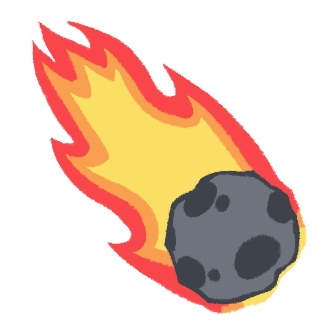
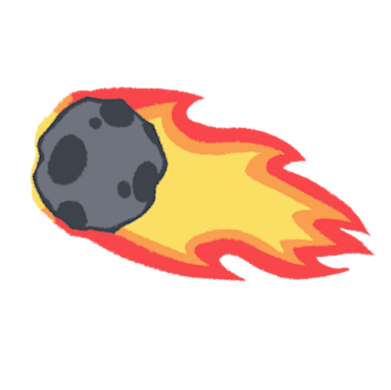
Cloud platforms only fade when standing on them and fixed meteors

diff --git a/Assets/Player/PlayerController.cs b/Assets/Player/PlayerController.cs
@@ -64,7 +64,7 @@ public class PlayerController : MonoBehaviour
 
     [Header("Misc")]
     [Tooltip("How many collectable thingies the player has collected")]
-    [SerializeField] int grabby = 0;
+    [SerializeField] public static int collectables = 0;
     [Tooltip("How much time it takes for the player to die")]
     [Range(0f, 10f)]
     [SerializeField] float TimeBeforeDeath = 5;
@@ -204,7 +204,7 @@ public class PlayerController : MonoBehaviour
     }
 
     // If the player is close enough to the ground, consider them to be grounded
-    private bool IsGrounded() 
+    public bool IsGrounded() 
     {
         return Physics2D.OverlapCircle(GroundCheck.position, 0.2f, GroundLayer);
     }
@@ -220,8 +220,8 @@ public class PlayerController : MonoBehaviour
         }
         else if (coll.tag == GrabTag)
         {
-            grabby++;
-            CollectionText.text = grabby.ToString();
+            collectables++;
+            CollectionText.text = collectables.ToString();
             AudioSource.PlayClipAtPoint(CollectableSFX, transform.position);
             GoatSource.PlayOneShot(CollectableSFX);
             Destroy (coll.gameObject);
@@ -248,7 +248,9 @@ public class PlayerController : MonoBehaviour
 
     IEnumerator Death()
     {
-        yield return new WaitForSeconds(TimeBeforeDeath);
-        SceneManager.LoadScene("GameOver");
+        //yield return new WaitForSeconds(TimeBeforeDeath);
+        //collectables = 0;
+        //SceneManager.LoadScene("GameOver");
+        yield return null;
     }
 }

diff --git a/Assets/Obstacles/Level 4/Meteor.cs b/Assets/Obstacles/Level 4/Meteor.cs
@@ -8,6 +8,8 @@ public class Meteor : MonoBehaviour
     [SerializeField] string DeathTrigger = "Death Platform";
     public float MoveSpeed = 1f;
     Rigidbody2D RefRigidBody;
+    SpriteRenderer RefSprite;
+    CircleCollider2D RefCollider;
 
     public float LeftRotationAmount = 330f;
     public float RightRotationAmount = 210f;
@@ -18,6 +20,8 @@ public class Meteor : MonoBehaviour
     private void Awake()
     {
         RefRigidBody = GetComponent<Rigidbody2D>();
+        RefSprite = GetComponent<SpriteRenderer>();
+        RefCollider = GetComponent<CircleCollider2D>();
     }
 
     // Start is called before the first frame update
@@ -25,13 +29,18 @@ public class Meteor : MonoBehaviour
     {
         LeftRotator = Quaternion.AngleAxis(LeftRotationAmount, Vector3.forward);
         RightRotator = Quaternion.AngleAxis(RightRotationAmount, Vector3.forward);
+        RefSprite.flipX = true;
         if (Mathf.Sign(transform.position.x) <= -1) 
         {
             ComingFromLeft = true;
+            RefSprite.flipY = true;
+            RefCollider.offset = new Vector2(1f, -.3f);
         }
         else 
         {
             ComingFromLeft = false;
+            RefSprite.flipY = false;
+            RefCollider.offset = new Vector2(1f, .3f);
         }
 
         if (ComingFromLeft) 

diff --git a/Assets/Platforms/CloudPlatform.cs b/Assets/Platforms/CloudPlatform.cs
@@ -2,11 +2,12 @@ using System.Collections;
 using System.Collections.Generic;
 using UnityEngine;
 
-public class CloudPlatformFunctionality : MonoBehaviour
+public class CloudPlatform : MonoBehaviour
 {
     [SerializeField] float fadeTimer = .01f;
-    
-    void OnTriggerEnter2D(Collider2D coll){
+
+    void OnTriggerEnter2D(Collider2D coll)
+    {
         if (coll.name == "Player")
         {
             PlayerController controller = coll.GetComponent<PlayerController>();
@@ -26,7 +27,7 @@ public class CloudPlatformFunctionality : MonoBehaviour
             GetComponent<Renderer>().material.color = color;
             yield return null;
         }
-        Destroy(gameObject);    
+        Destroy(gameObject);
     }
 
     private void OnDestroy()

diff --git a/Assets/Audio/AudioPlayer.cs b/Assets/Audio/AudioPlayer.cs
@@ -10,5 +10,7 @@ public class AudioPlayer : MonoBehaviour
     public void PlayStep()
     {
         AudioSource.PlayClipAtPoint(Step, transform.position);
-    }  
+    }
+
+    
 }
